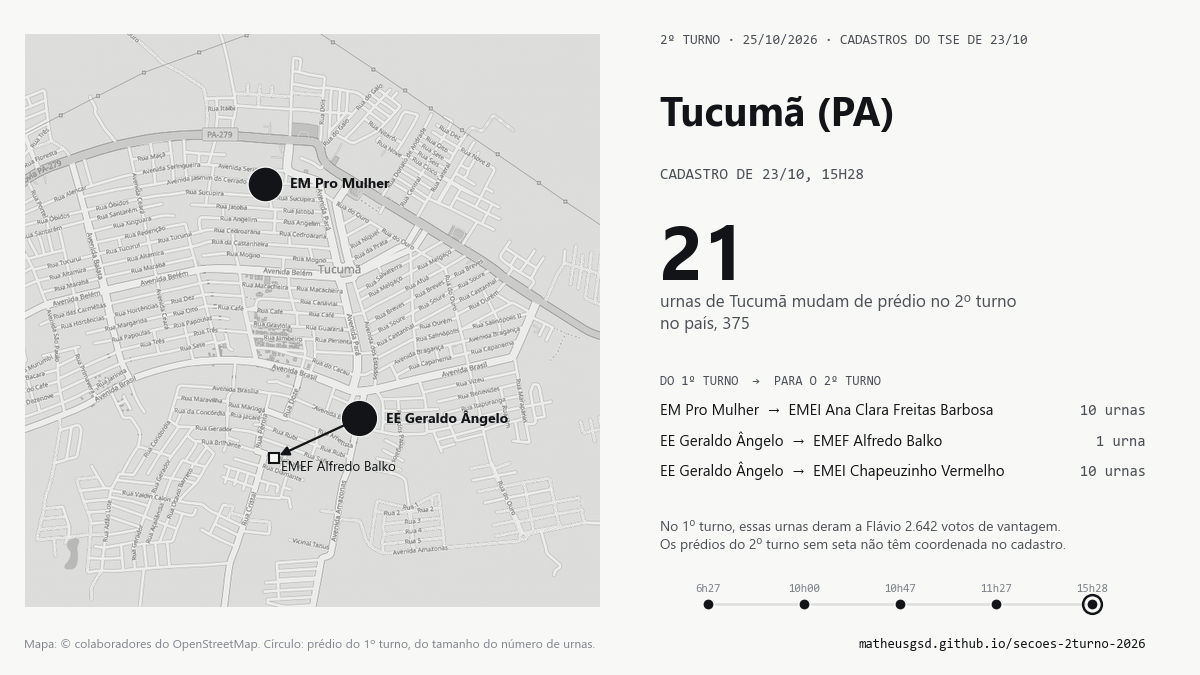
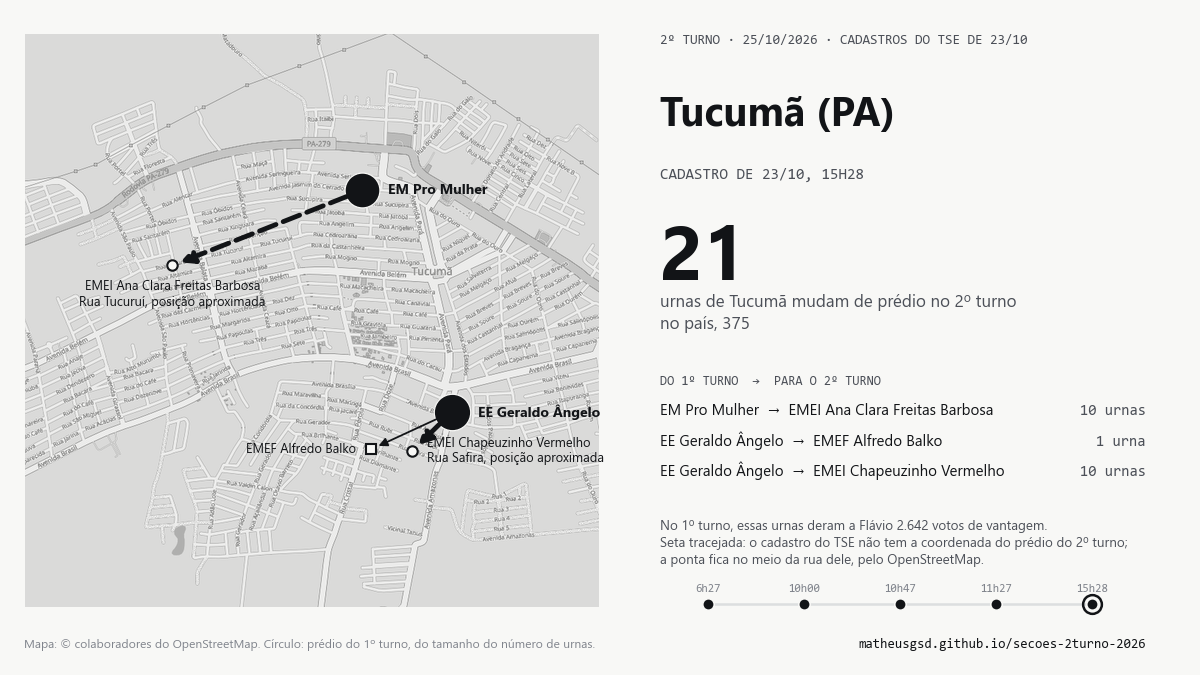
GIF de Tucumã: setas para os três destinos, da espessura do número de urnas
As duas EMEIs para onde vão 20 das 21 urnas não têm coordenada no cadastro (-1); a seta vai tracejada até o
meio da rua delas (Rua Safira, Rua Tucuruí), pelo Nominatim do OpenStreetMap, com aviso de posição aproximada.
Antes, a única seta era a da urna que vai para a EMEF Alfredo Balko, e parecia o movimento principal.

diff --git a/scripts/21_gif_municipio.py b/scripts/21_gif_municipio.py
@@ -2,18 +2,24 @@
 
 O mesmo desenho do mapa de "Como a lista encolheu" (um círculo por prédio do 1º turno, do tamanho do número de urnas
 dele na lista, anel nas que entram), mais perto, com fundo do OpenStreetMap (tiles de 20_imagem_reescritos.py, em
-dados/osm/). Quando o prédio do 2º turno tem coordenada no cadastro, uma seta liga os dois; os destinos sem coordenada
-ficam só na lista à direita. A lista de cada versão vem de saida/urnas_mudadas_2026.csv no commit dela (versoes.py).
+dados/osm/). Uma seta liga o prédio do 1º turno ao do 2º, da espessura do número de urnas. Quando o prédio do 2º turno
+não tem coordenada no cadastro (Tucumã-PA, 23/10: duas EMEIs novas com -1), a seta é tracejada e vai até o meio da rua
+dele, pelo Nominatim do OpenStreetMap; sem a rua, fica só na lista à direita. A lista de cada versão vem de
+saida/urnas_mudadas_2026.csv no commit dela (versoes.py).
 
 Uso: python -P scripts/21_gif_municipio.py PA TUCUMÃ 5   (estado, município, quantas versões, das mais recentes)
 Saída: saida/gif_<município>.gif
 """
 import importlib
 import io
+import json
 import math
 import subprocess
 import sys
+import time
 import unicodedata
+import urllib.parse
+import urllib.request
 from pathlib import Path
 
 import matplotlib
@@ -36,12 +42,39 @@ COR = {"saiu do local de cadastro": TINTA, "voltou ao local de cadastro": VOLTA,
 FONTE, DADOS = "Segoe UI", "Consolas"
 PASSOS, MS_PASSO, MS_PARADO, MS_PRIMEIRO, MS_ULTIMO = 9, 35, 1300, 2200, 5000
 SIGLAS = {"EM", "EE", "EMEF", "EMEI", "EMEIF", "UBS", "CE", "EEEF"}
+UF_NOME = {"AC": "Acre", "AL": "Alagoas", "AP": "Amapá", "AM": "Amazonas", "BA": "Bahia", "CE": "Ceará",
+           "DF": "Distrito Federal", "ES": "Espírito Santo", "GO": "Goiás", "MA": "Maranhão", "MT": "Mato Grosso",
+           "MS": "Mato Grosso do Sul", "MG": "Minas Gerais", "PA": "Pará", "PB": "Paraíba", "PR": "Paraná",
+           "PE": "Pernambuco", "PI": "Piauí", "RJ": "Rio de Janeiro", "RN": "Rio Grande do Norte",
+           "RS": "Rio Grande do Sul", "RO": "Rondônia", "RR": "Roraima", "SC": "Santa Catarina", "SP": "São Paulo",
+           "SE": "Sergipe", "TO": "Tocantins"}
 
 
 def nome(s):
     pequenas = {"DE", "DA", "DO", "DAS", "DOS", "E"}
     ps = s.replace(".", " ").split()
     return " ".join(p if p in SIGLAS else p.lower() if i and p in pequenas else p.capitalize() for i, p in enumerate(ps))
+
+
+def rua_no_osm(endereco, mun, uf):
+    """Ponto do meio da rua de um endereço ("RUA SAFIRA, S/N"), pelo Nominatim do OpenStreetMap, guardado em
+    dados/osm/ruas.json para não repetir a consulta. None se a rua não está no OpenStreetMap daquele município."""
+    rua = nome(str(endereco).split(",")[0].strip())
+    arq = osm.CACHE / "ruas.json"
+    memo = json.loads(arq.read_text(encoding="utf-8")) if arq.exists() else {}
+    chave = f"{rua}|{mun}|{uf}"
+    if chave not in memo:
+        q = urllib.parse.urlencode({"q": f"{rua}, {nome(mun)}, {UF_NOME[uf]}, Brasil", "format": "json", "limit": 1})
+        req = urllib.request.Request(f"https://nominatim.openstreetmap.org/search?{q}",
+                                     headers={"User-Agent": "secoes-2turno-2026 (cartao estatico, github.com/MatheusGSD)"})
+        r = json.load(urllib.request.urlopen(req, timeout=30))
+        achou = r and nome(mun) in r[0]["display_name"]
+        memo[chave] = [float(r[0]["lat"]), float(r[0]["lon"]), r[0]["display_name"].split(",")[0]] if achou else None
+        arq.parent.mkdir(parents=True, exist_ok=True)
+        arq.write_text(json.dumps(memo, ensure_ascii=False, indent=1), encoding="utf-8")
+        time.sleep(1.1)  # política de uso do Nominatim: uma consulta por segundo
+    m = memo[chave]
+    return (m[:2], m[2]) if m else (None, rua)  # o nome da rua como está no OpenStreetMap, com acento
 
 
 def lista_da_versao(commit):
@@ -71,7 +104,15 @@ def main():
     todas = pd.concat([l for _, _, l in listas])
     predios = todas.groupby("NR_LOCAL_VOTACAO").agg(nm=("NM_LOCAL_VOTACAO", "first"), lat=("lat", "first"), lon=("lon", "first"))
     trajetos = (todas.groupby(["NR_LOCAL_VOTACAO", "NR_LOCAL_VOTACAO_2"])
-                .agg(nm2=("NM_LOCAL_VOTACAO_2", "first"), lat2=("lat_2", "first"), lon2=("lon_2", "first")).reset_index())
+                .agg(nm2=("NM_LOCAL_VOTACAO_2", "first"), end2=("DS_ENDERECO_2", "first"), lat2=("lat_2", "first"),
+                     lon2=("lon_2", "first")).reset_index())
+    # prédio do 2º turno sem coordenada no cadastro: a ponta da seta vai para o meio da rua dele, pelo OpenStreetMap
+    trajetos["rua"] = None
+    for k, r in trajetos[trajetos.lat2.isna()].iterrows():
+        pos, rua = rua_no_osm(r.end2, mun, uf)
+        o = predios.loc[r.NR_LOCAL_VOTACAO]
+        if pos and math.hypot((pos[0] - o.lat) * 111.3, (pos[1] - o.lon) * 111.3) < 10:  # km, para não pegar homônima
+            trajetos.loc[k, ["lat2", "lon2", "rua"]] = [pos[0], pos[1], rua]
 
     def contagem(l, chave):
         return l.groupby(chave).size().to_dict() if len(l) else {}
@@ -103,6 +144,13 @@ def main():
         x, y = osm.tile_xy(lat, lon, z)
         return (x - tx0) * 256 - caixa[0], (y - ty0) * 256 - caixa[1]
 
+    # lado do rótulo de cada destino: embaixo; com outro destino perto, o da esquerda à esquerda e o outro à direita
+    pos2 = {k: px(r.lat2, r.lon2) for k, r in trajetos.iterrows() if pd.notna(r.lat2)}
+    lado = {}
+    for k, (x, y) in pos2.items():
+        perto = [x_ for k_, (x_, y_) in pos2.items() if k_ != k and abs(x - x_) < 150 and abs(y - y_) < 60]
+        lado[k] = "baixo" if not perto else "esq" if x < min(perto) else "dir"
+
     area = lambda u: 26 * u + 20  # noqa: E731
     quadros, tempos = [], []
 
@@ -114,19 +162,25 @@ def main():
         ax = fig.add_axes([0.02, 0.1, 0.48, 0.85]); ax.set_facecolor(PAPEL)
         ax.imshow(fundo, cmap="gray", vmin=0, vmax=255, alpha=.5, interpolation="lanczos")
         ax.set_xlim(0, fundo.shape[1]); ax.set_ylim(fundo.shape[0], 0); ax.axis("off")
-        # setas para os prédios do 2º turno com coordenada
+        # setas para os prédios do 2º turno, da espessura do número de urnas; tracejada se a ponta é a rua
         for r in trajetos.itertuples():
             if pd.isna(r.lat2):
                 continue
-            q = a["trajeto"].get((r.NR_LOCAL_VOTACAO, r.NR_LOCAL_VOTACAO_2), 0) * (1 - e) + \
-                b["trajeto"].get((r.NR_LOCAL_VOTACAO, r.NR_LOCAL_VOTACAO_2), 0) * e
+            chave = (r.NR_LOCAL_VOTACAO, r.NR_LOCAL_VOTACAO_2)
+            q = a["trajeto"].get(chave, 0) * (1 - e) + b["trajeto"].get(chave, 0) * e
             if q <= 0:
                 continue
+            al = min(1, q)
             p1, p2 = px(*predios.loc[r.NR_LOCAL_VOTACAO, ["lat", "lon"]]), px(r.lat2, r.lon2)
-            ax.annotate("", xy=p2, xytext=p1, arrowprops=dict(arrowstyle="-|>", color=TINTA, lw=1.1, alpha=min(1, q),
-                                                              shrinkA=7, shrinkB=3, mutation_scale=9))
-            ax.plot(*p2, "s", ms=5, color=PAPEL, mec=TINTA, mew=1, alpha=min(1, q))
-            ax.text(p2[0] + 9, p2[1] + 4, nome(r.nm2), size=6.4, color=TINTA, family=FONTE, va="top", alpha=min(1, q))
+            ax.annotate("", xy=p2, xytext=p1, arrowprops=dict(arrowstyle="-|>", color=TINTA, lw=.7 + .16 * q, alpha=al,
+                                                              ls="--" if r.rua else "-", shrinkA=8, shrinkB=4,
+                                                              mutation_scale=8 + .5 * q))
+            ax.plot(*p2, "o" if r.rua else "s", ms=5, color=PAPEL, mec=TINTA, mew=1, alpha=al)
+            texto = nome(r.nm2) + (f"\n{r.rua}, posição aproximada" if r.rua else "")
+            xy, ha, va = {"baixo": ((0, -7), "center", "top"), "esq": ((-7, 0), "right", "center"),
+                          "dir": ((7, 0), "left", "center")}[lado[r.Index]]
+            ax.annotate(texto, p2, xytext=xy, textcoords="offset points", ha=ha, va=va, size=6.2, color=TINTA,
+                        family=FONTE, alpha=al, linespacing=1.25)
         for loc, p in predios.iterrows():
             x, y = px(p.lat, p.lon)
             u = a["predio"].get(loc, 0) * (1 - e) + b["predio"].get(loc, 0) * e
@@ -160,11 +214,13 @@ def main():
             fig.text(.955, y, f"{u} urna{'s' if u != 1 else ''}" if u else "", ha="right", size=7.2, family=DADOS,
                      color=TINTA2)
             y -= .045
-        sem = trajetos.lat2.isna().sum()
+        sem, aprox = trajetos.lat2.isna().sum(), trajetos.rua.notna().sum()
         lat_fl = ultima.c22.sum() - ultima.c13.sum()
         T(y - .02, (f"No 1º turno, essas urnas deram a {'Flávio' if lat_fl > 0 else 'Lula'} {fmt(abs(lat_fl))} votos de vantagem."
-                    + ("\nOs prédios do 2º turno sem seta não têm coordenada no cadastro." if sem else "")),
-          size=6.6, color=TINTA2, va="top", linespacing=1.4)
+                    + ("\nSeta tracejada: o cadastro do TSE não tem a coordenada do prédio do 2º turno;\n"
+                       "a ponta fica no meio da rua dele, pelo OpenStreetMap." if aprox else "")
+                    + ("\nSem seta: prédio do 2º turno sem coordenada no cadastro." if sem else "")),
+          size=6.4, color=TINTA2, va="top", linespacing=1.4)
         # linha do tempo das versões mostradas
         tl = fig.add_axes([x0, .075, .4, .06]); tl.set_xlim(-.5, len(vers) - .5); tl.set_ylim(-1, 1); tl.axis("off")
         tl.plot([0, len(vers) - 1], [0, 0], color=LINHA, lw=1.2, zorder=1)
